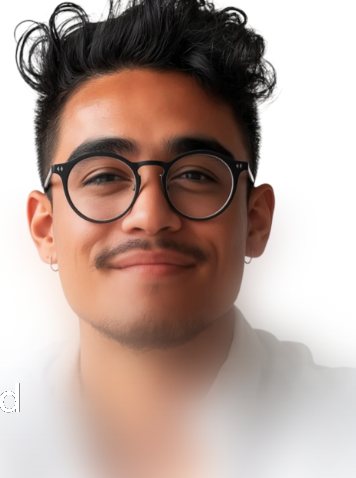
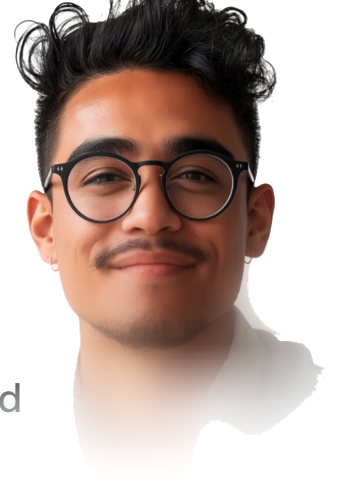
feat: seamless alpha transparency and natural background blending for hero portrait

diff --git a/src/components/LuziaHero.jsx b/src/components/LuziaHero.jsx
@@ -77,22 +77,18 @@ export const LuziaHero = ({ onOpenEmail }) => {
               <img
                 src="/images/tj_hero.png"
                 alt="TJ - Digital Product Designer"
-                className="w-full h-auto object-contain select-none pointer-events-none block mix-blend-multiply"
+                className="w-full h-auto object-contain select-none pointer-events-none block drop-shadow-[0_15px_30px_rgba(0,0,0,0.05)]"
                 style={{
                   maxHeight: '80vh',
-                  maskImage:
-                    'linear-gradient(to bottom, black 65%, rgba(0,0,0,0.8) 82%, transparent 100%)',
-                  WebkitMaskImage:
-                    'linear-gradient(to bottom, black 65%, rgba(0,0,0,0.8) 82%, transparent 100%)',
                 }}
               />
               {/* Floor fade */}
               <div
                 className="absolute inset-x-0 bottom-0 pointer-events-none"
                 style={{
-                  height: '32%',
+                  height: '28%',
                   background:
-                    'linear-gradient(to top, #F3F4F6 20%, rgba(243,244,246,0.6) 65%, transparent 100%)',
+                    'linear-gradient(to top, #F3F4F6 15%, rgba(243,244,246,0.7) 55%, transparent 100%)',
                 }}
               />
             </motion.div>
